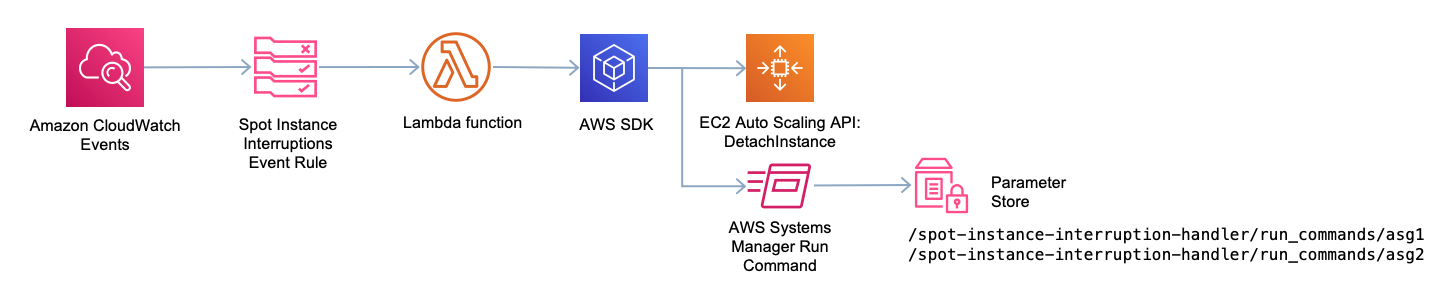
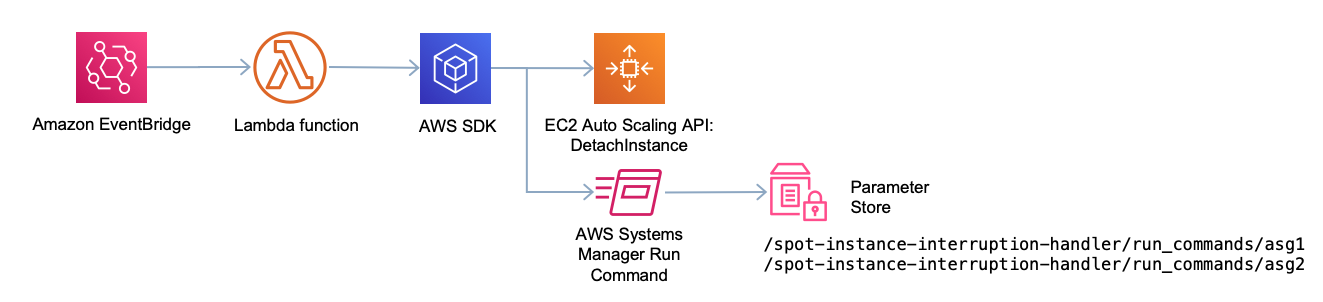
Update references to Amazon EventBridge

Changed region(s): [[0.0, 0.0922, 0.6198, 0.5836], [0.4029, 0.5222, 0.9917, 0.9522]]

diff --git a/ec2-spot-interruption-handler/README.md b/ec2-spot-interruption-handler/README.md
@@ -1,8 +1,8 @@
 # Spot Instance Interruption Handler
 
-Spot instances are spare EC2 capacity offered with an up to 90% discount compared to On-Demand pricing with the only consideration that they can be reclaimed with a two-minute warning if EC2 needs the capacity back. This two minutes warning is provided via the local EC2 metadata endpoint of each instance type (http://169.254.169.254/latest/meta-data/spot/instance-action) and via a CloudWatch event, which can trigger a set of actions.
+Spot instances are spare EC2 capacity offered with an up to 90% discount compared to On-Demand pricing with the only consideration that they can be reclaimed with a two-minute warning if EC2 needs the capacity back. This two minutes warning is provided via the local EC2 metadata endpoint of each instance type (http://169.254.169.254/latest/meta-data/spot/instance-action) and via a an (optional) [Amazon EventBridge event](https://docs.aws.amazon.com/eventbridge/latest/userguide/create-eventbridge-rule.html), which can trigger a set of actions.
 
-This project provides a CloudFormation template that deploys a CloudWatch Events rule that catches Spot Instance Interruptions and triggers an AWS Lambda function to react to it. On its current form, this Lambda function allows you to react to Spot instance interruptions of instances that are part of an Auto Scaling group within the region you deploy it. When receiving an interruption notice, the function calls the Auto Scaling API to detach the instance from the Auto Scaling group, if the group has a Load Balancer configured, it will put the instance in draining state to stop sending new requests to it and allow time for in-flight requests to complete (default settings for ALB is 300 seconds, but it's recommended to adjust deregistration delay to 90 seconds or lower for Spot instances; see docs [here](https://docs.aws.amazon.com/elasticloadbalancing/latest/application/load-balancer-target-groups.html#deregistration-delay)); as well as request Auto Scaling to attempt to launch a replacement instance based on your instance type selection and allocation strategy. You can find more information [here](https://docs.aws.amazon.com/autoscaling/ec2/APIReference/API_DetachInstances.html).
+This project provides a CloudFormation template that deploys an Amazon EventBridge rule that catches Spot Instance Interruptions and triggers an AWS Lambda function to react to it. On its current form, this Lambda function allows you to react to Spot instance interruptions of instances that are part of an Auto Scaling group within the region you deploy it. When receiving an interruption notice, the function calls the Auto Scaling API to detach the instance from the Auto Scaling group, if the group has a Load Balancer configured, it will put the instance in draining state to stop sending new requests to it and allow time for in-flight requests to complete (default settings for ALB is 300 seconds, but it's recommended to adjust deregistration delay to 90 seconds or lower for Spot instances; see docs [here](https://docs.aws.amazon.com/elasticloadbalancing/latest/application/load-balancer-target-groups.html#deregistration-delay)); as well as request Auto Scaling to attempt to launch a replacement instance based on your instance type selection and allocation strategy. You can find more information [here](https://docs.aws.amazon.com/autoscaling/ec2/APIReference/API_DetachInstances.html).
 
 Optionally, you can also configure a set of commands to be invoked on your to-be-interrupted instance using AWS Systems Manager [Run Command](https://docs.aws.amazon.com/systems-manager/latest/userguide/execute-remote-commands.html); like gracefully terminating your application, copying logs to S3, deregistering agents... In order to use this feature, your instances need to run the [AWS Systems Manager agent](https://docs.aws.amazon.com/systems-manager/latest/userguide/ssm-agent.html) (that comes pre-installed on Amazon Linux 2) and have an IAM Instance Profile with permissions to access the Systems manager API. You can find more configuration details [here](https://docs.aws.amazon.com/systems-manager/latest/userguide/systems-manager-setting-up.html).
 
@@ -38,6 +38,6 @@ You can test this with an existing Auto Scaling group on your account or deployi
 
 ## Costs of the solution
 
-- CloudWatch Events (except custom events) are free of charge. Pricing details can be found [here](https://aws.amazon.com/cloudwatch/pricing/)
+- Amazon EventBridge events for AWS service events are free of charge. Pricing details can be found [here](https://aws.amazon.com/eventbridge/pricing/)
 - If you already use all the monthly free tier that AWS Lambda provides, Lambda pricing applies. Otherwise, the usage of this will be covered by the free tier. More info [here](https://aws.amazon.com/lambda/pricing/)
 - AWS Systems Manager Run Command doesn't incurr additional charges (limits apply). Parameter Store has also a Standard tier that doesn't incurr charges. Pricing details can be found [here](https://aws.amazon.com/cloudwatch/pricing/)
